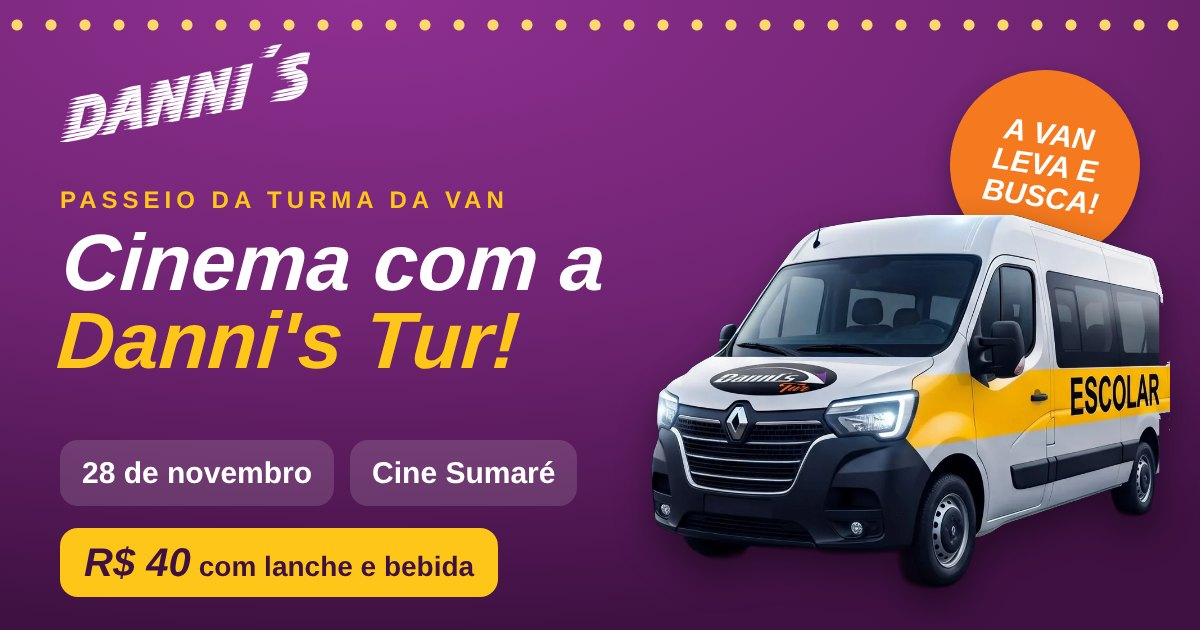
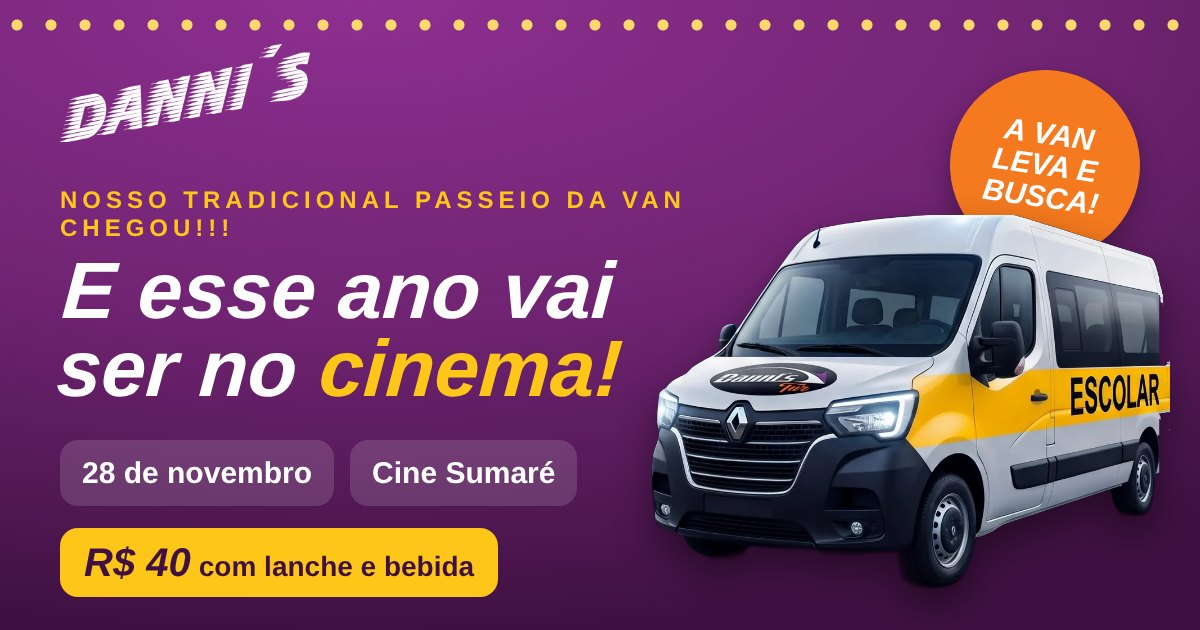
Cinema: 'Nosso tradicional passeio da van chegou!!! E esse ano vai ser no cinema'
Claude-Session: https://claude.ai/code/session_01U8xi88UjeTHNUZftDPUrnp

Changed region(s): [[0.0308, 0.3016, 0.5858, 0.6333]]

diff --git a/cinema.html b/cinema.html
@@ -3,12 +3,12 @@
 <head>
 <meta charset="utf-8">
 <meta name="viewport" content="width=device-width, initial-scale=1, viewport-fit=cover">
-<title>Cinema com a Danni's Tur · 28/11</title>
+<title>Passeio da Van · Cinema 28/11</title>
 <meta name="description" content="Passeio da van pro Cine Sumaré no dia 28 de novembro. A van leva e busca. R$ 40 com lanche e bebida.">
 <meta property="og:type" content="website">
-<meta property="og:title" content="🎬 Cinema com a Danni's Tur · 28 de novembro">
-<meta property="og:description" content="A van leva e busca! R$ 40 com lanche e bebida. Inscreva seu filho pelo app.">
-<meta property="og:image" content="https://murilodannis123-lang.github.io/dannis-tur/og-cinema.jpg?v=1">
+<meta property="og:title" content="🚐 Nosso tradicional passeio da van chegou! Esse ano vai ser no cinema 🎬">
+<meta property="og:description" content="28 de novembro no Cine Sumaré. A van leva e busca! R$ 40 com lanche e bebida. Inscreva seu filho pelo app.">
+<meta property="og:image" content="https://murilodannis123-lang.github.io/dannis-tur/og-cinema.jpg?v=2">
 <meta property="og:image:width" content="1200">
 <meta property="og:image:height" content="630">
 <meta property="og:url" content="https://murilodannis123-lang.github.io/dannis-tur/cinema.html">
@@ -87,8 +87,8 @@ body{margin:0}
 
     <section class="ingresso" aria-label="Convite">
       <div class="luzes" aria-hidden="true"></div>
-      <small>Passeio da turma da van</small>
-      <h1>Cinema com a <em>Danni's Tur!</em> 🍿</h1>
+      <small>Nosso tradicional passeio da van chegou!!!</small>
+      <h1>E esse ano vai ser no <em>cinema!</em> 🍿</h1>
       <div class="dados-ev">
         <div><b>28 de novembro</b><span>sábado</span></div>
         <div><b>Cine Sumaré</b><span id="horario">horário: avisamos no grupo</span></div>

diff --git a/index.html b/index.html
@@ -44,7 +44,7 @@
     <div class="inicio-acoes">
       <a class="acao cine-btn" href="cinema.html">
         <span class="ic" aria-hidden="true">🎬</span>
-        <span><b>Cinema com a Danni's · 28/11</b><small>A van leva e busca · R$ 40 com lanche · inscreva aqui</small></span>
+        <span><b>Passeio da van: cinema! · 28/11</b><small>Nosso tradicional passeio chegou · a van leva e busca · inscreva aqui</small></span>
         <svg class="seta" viewBox="0 0 24 24" aria-hidden="true"><path d="M9 5l7 7-7 7" fill="none" stroke="#fff" stroke-width="2.6" stroke-linecap="round" stroke-linejoin="round"/></svg>
       </a>
       <a class="acao quad renov" href="renovacao.html">
